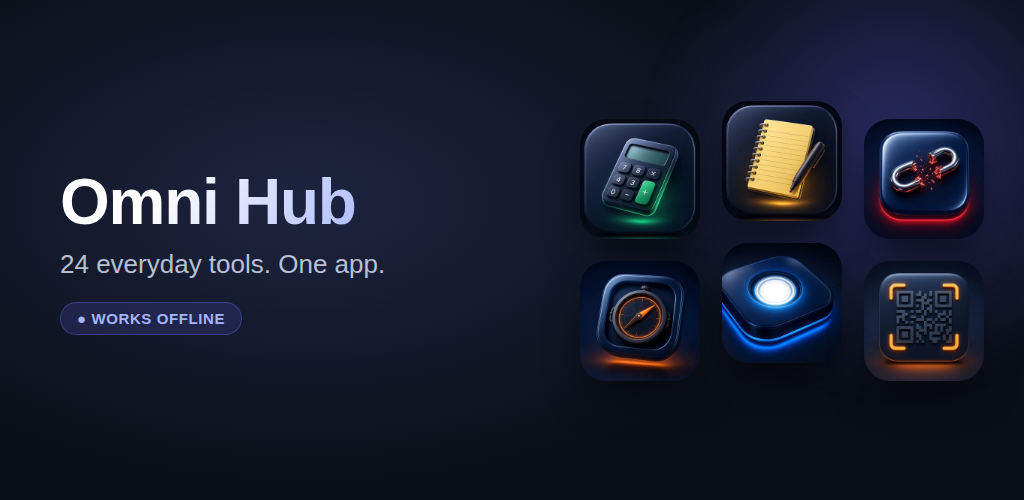
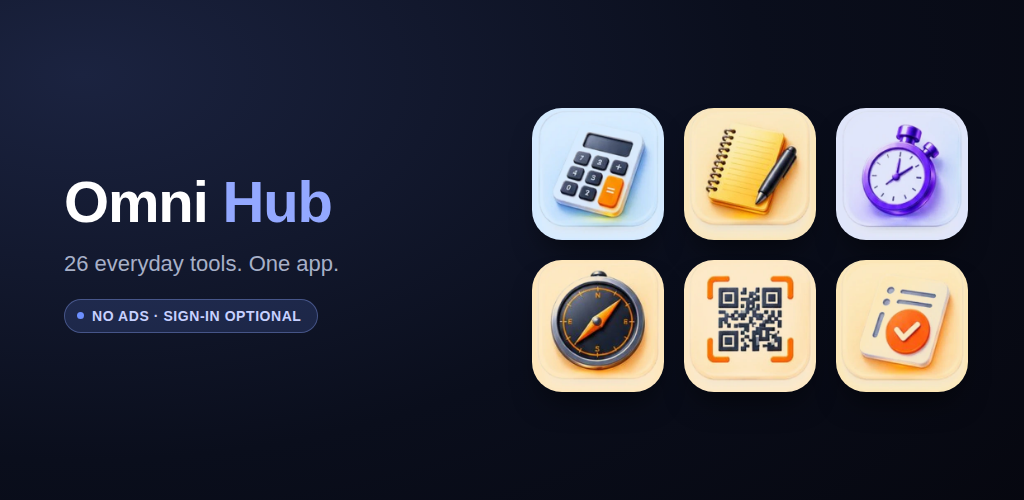
Refresh feature graphic, fix stale tool count
Old feature graphic had a "WORKS OFFLINE" badge baked into the image
(contradicts the earlier fix dropping that marketing claim), a
"24 everyday tools" count, and a placeholder icon that didn't match
any real tool. Regenerated with real current tool icons, no offline
claim, and the correct 26-tool count, and fixed the same stale count
in two spots in the listing doc's text.

Claude-Session: https://claude.ai/code/session_01EqVgutfQDkbqqoUGPuBTxu

diff --git a/docs/play-store-listing.md b/docs/play-store-listing.md
@@ -3,7 +3,7 @@
 ## Short description (max 80 characters)
 
 ```
-25 tools in one place — no ads, sign-in optional.
+26 tools in one place — no ads, sign-in optional.
 ```
 
 (50 characters)
@@ -19,7 +19,7 @@ Sign-up is never required to use Omni Hub. Everything you create is stored on yo
 OPTIONAL: SYNC ACROSS YOUR DEVICES
 Want your data available on more than one device? Sign in with Google, entirely optional, to sync Notes, Checklist, Expense Tracker, Budget, Subscription Calculator, Debt Tracker, Alarms, and your private Vault automatically. Your Vault stays end-to-end protected — only your already PIN-encrypted data ever leaves your device, and your PIN itself never does. Nothing is shared, sold, or used for ads either way.
 
-25 TOOLS
+26 TOOLS
 
 Essentials
 • Calculator — with a history of your past calculations
